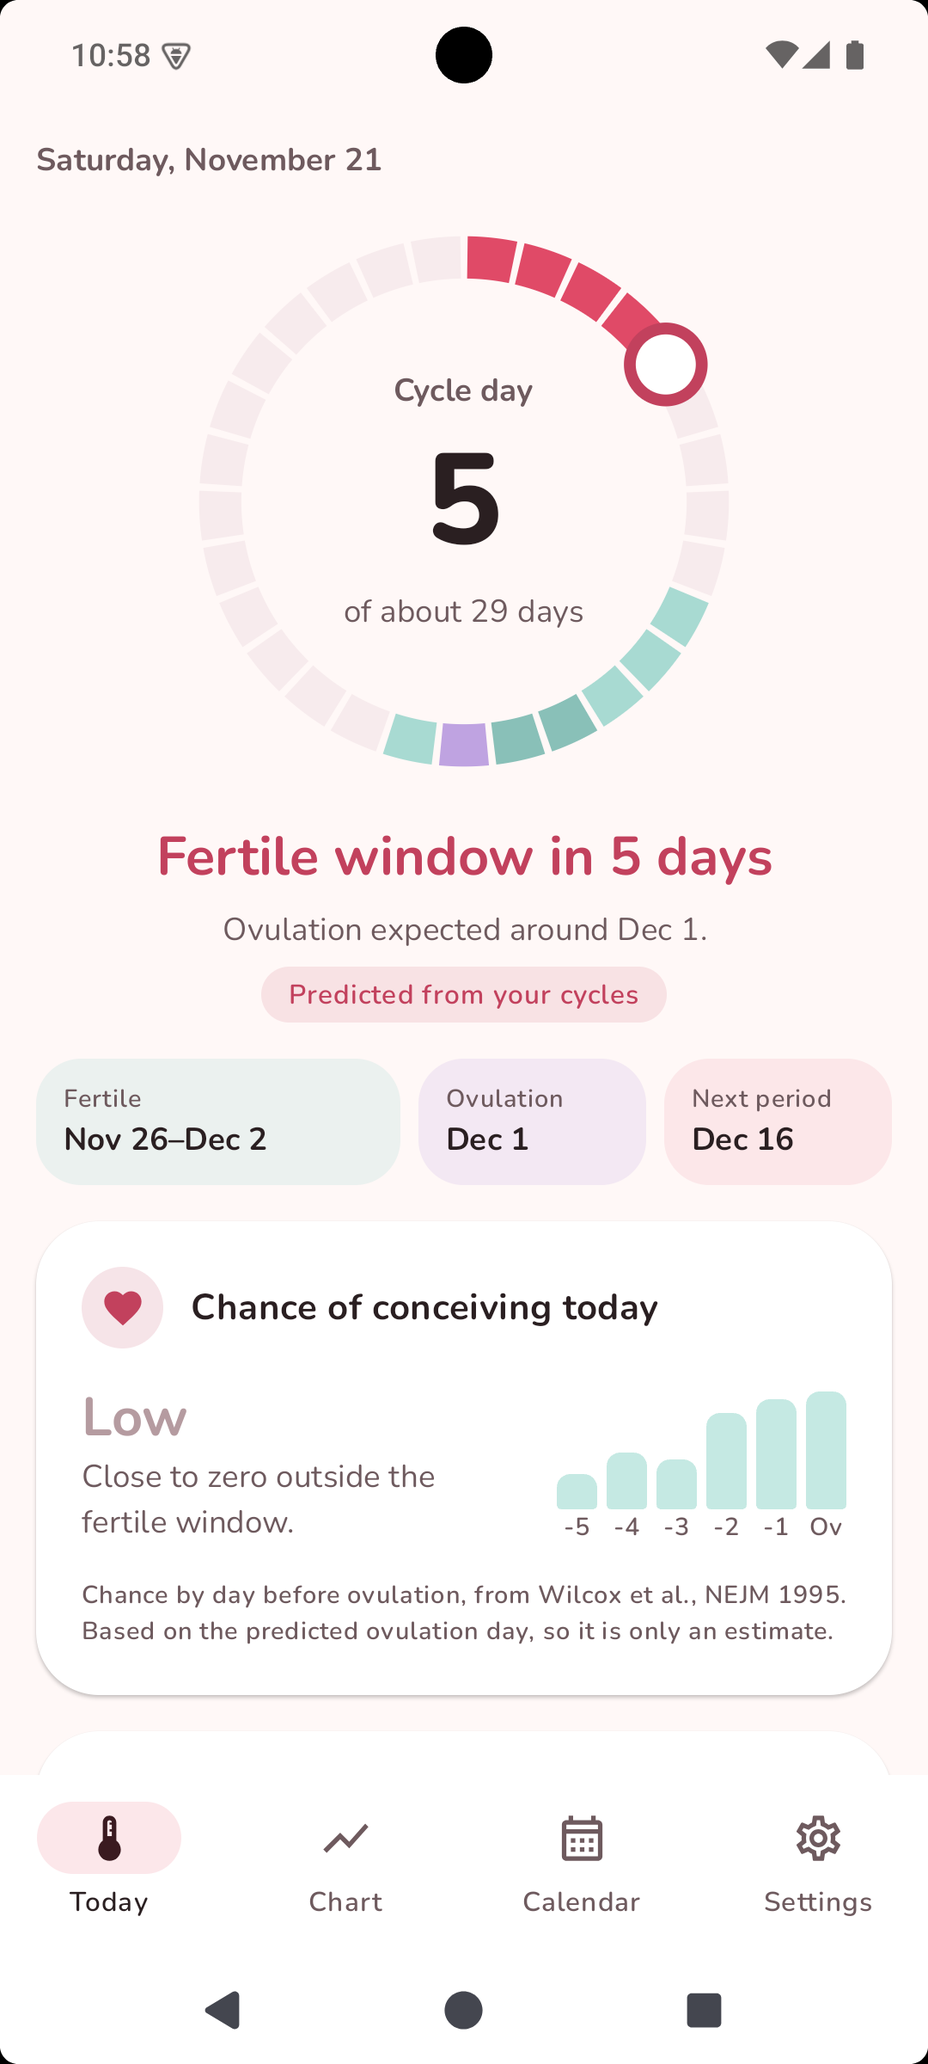
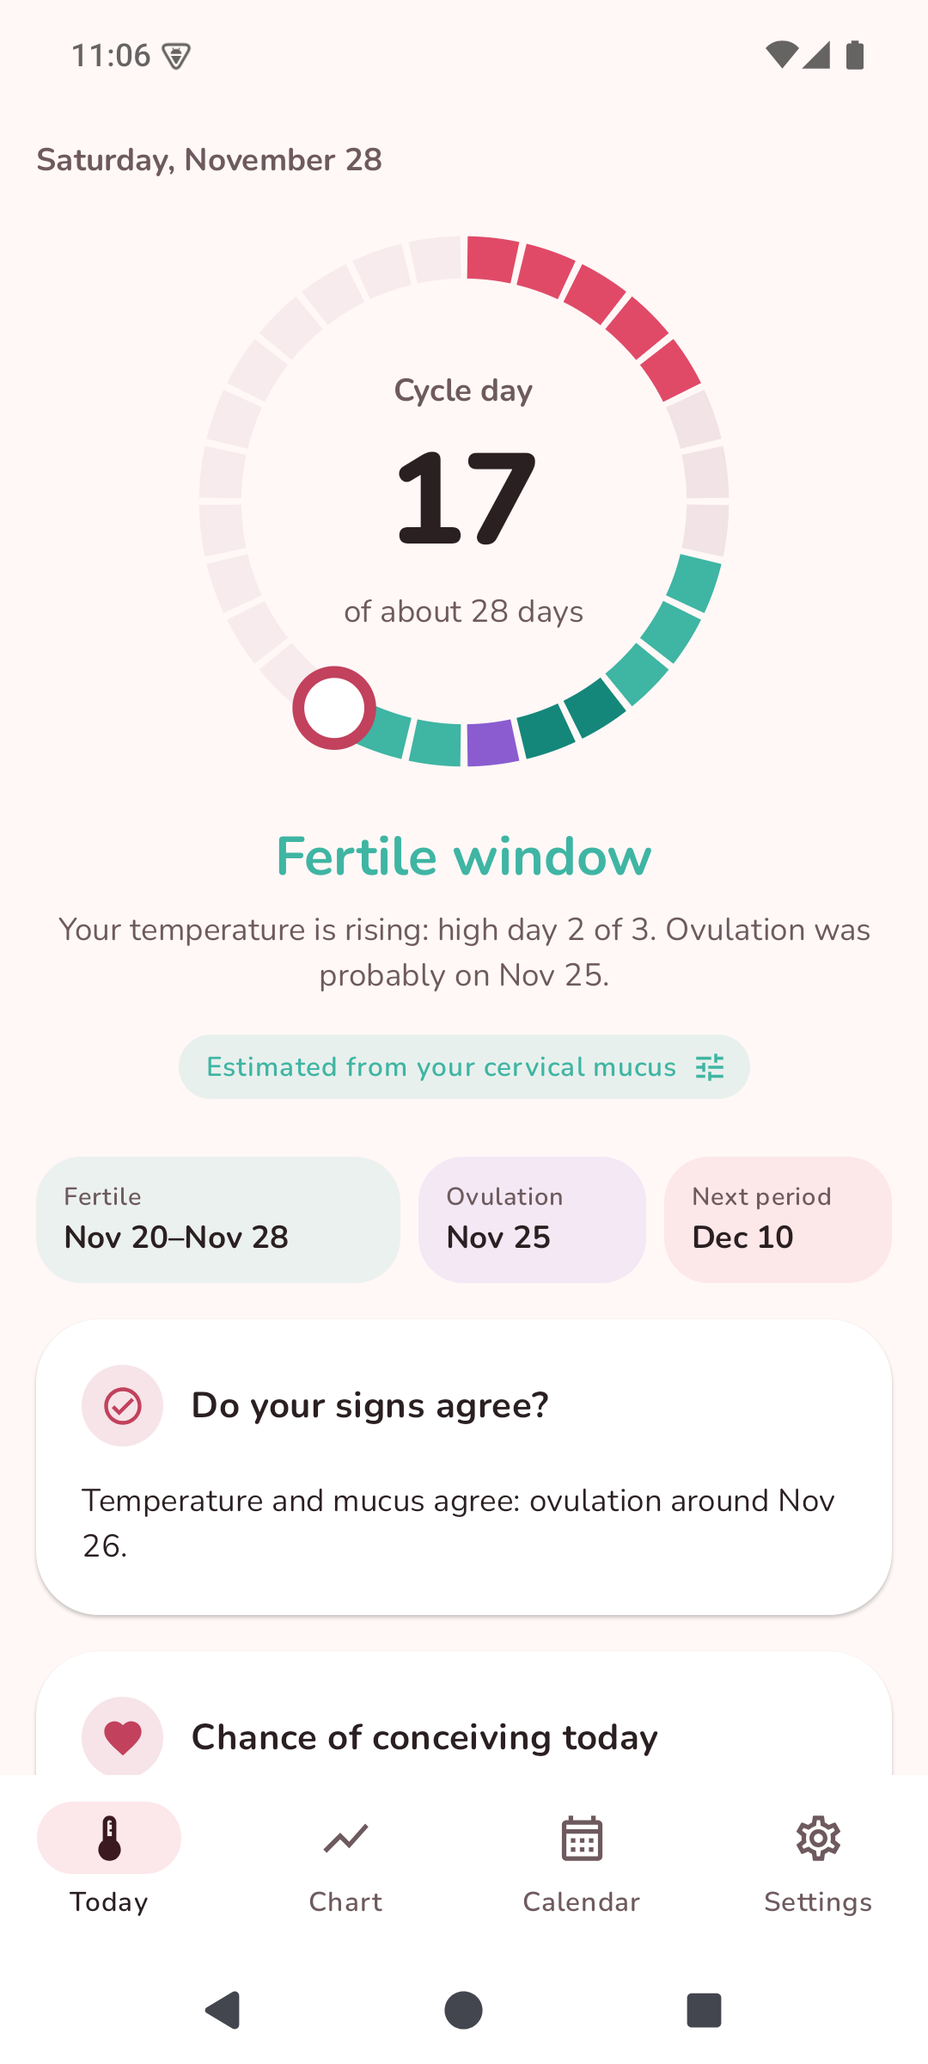
Ready for Google Play as a period tracker: disclaimer, store texts, README and screenshots

diff --git a/shared/src/commonMain/kotlin/app/ondea/bridge/DemoData.kt b/shared/src/commonMain/kotlin/app/ondea/bridge/DemoData.kt
@@ -4,12 +4,13 @@ import app.ondea.data.AppData
 
 /**
  * Three sample cycles ending [today] (epoch day): two finished cycles with a temperature rise and mucus,
- * and the current one. For screenshots and tests only; never saved.
+ * and the current one on day 17, with a mucus peak on day 14 and the temperature rising since day 16.
+ * For screenshots and tests only; never saved.
  */
 object DemoData {
     fun appData(today: Long): AppData {
         val core = OndeaCore(null)
-        val start = today - 4 - 58
+        val start = today - 16 - 58
         core.completeOnboarding(start, cycleLength = 28, periodLength = 5, ovulationDay = 0, fahrenheit = false)
         val starts = listOf(start, start + 29, start + 58)
         starts.forEachIndexed { i, cycleStart ->
@@ -17,11 +18,14 @@ object DemoData {
             val end = if (i + 1 < starts.size) starts[i + 1] else today + 1
             for (day in cycleStart until end) {
                 val cycleDay = (day - cycleStart).toInt() + 1
-                val high = i < 2 && cycleDay >= (if (i == 0) 17 else 16)
+                val high = cycleDay >= (if (i == 0) 17 else 16)
                 val jitter = (((day * 37) % 13).toInt() - 6) / 100.0
                 core.setTemperature(day, (if (high) 36.72 else 36.38) + jitter)
                 if (cycleDay <= 5) core.setFlow(day, listOf(3, 4, 3, 2, 1)[cycleDay - 1])
-                if (i < 2 && cycleDay in 10..15) core.setMucus(day, if (cycleDay >= 13) 4 else 3)
+                // Creamy, then egg white up to the peak, then sticky: the peak is confirmed the day after.
+                val peak = if (i == 2) 14 else 15
+                if (cycleDay in 10..peak) core.setMucus(day, if (cycleDay >= peak - 2) 4 else 3)
+                if (cycleDay == peak + 1) core.setMucus(day, 2)
             }
         }
         return core.data

diff --git a/shared/src/commonMain/kotlin/app/ondea/domain/TodayStatus.kt b/shared/src/commonMain/kotlin/app/ondea/domain/TodayStatus.kt
@@ -99,6 +99,9 @@ fun CycleEngine.todayStatus(): TodayStatus? {
             when {
                 f.ovulationSource == OvulationSource.TEMP_RISING ->
                     status(StatusTone.PEAK, Headline.PEAK_FERTILITY, 0, Detail.TEMP_RISING, f.risingDays, f.ovulation)
+                // After a mucus peak, a rise that has started is news: say it instead of "waiting for the rise".
+                f.ovulationSource == OvulationSource.MUCUS && f.risingDays > 0 ->
+                    status(tone, headline, 0, Detail.TEMP_RISING, f.risingDays, f.ovulation)
                 f.ovulationSource == OvulationSource.MUCUS_SIGN ->
                     if (f.ovulation == f.plannedOvulation) status(tone, headline, 0, Detail.MUCUS_SUGGESTS, null, f.ovulation)
                     else status(tone, headline, 0, Detail.MUCUS_MOVED, null, f.ovulation, f.plannedOvulation)
@@ -114,6 +117,7 @@ fun CycleEngine.todayStatus(): TodayStatus? {
         }
         today.isBefore(f.fertileStart) ->
             status(StatusTone.NEUTRAL, Headline.FERTILE_IN, daysBetween(today, f.fertileStart), Detail.OVULATION_EXPECTED, null, f.ovulation)
+        f.risingDays > 0 -> status(StatusTone.NEUTRAL, Headline.WAITING_FOR_SHIFT, 0, Detail.TEMP_RISING, f.risingDays, f.ovulation)
         else -> status(StatusTone.NEUTRAL, Headline.WAITING_FOR_SHIFT, 0, Detail.WAITING_FOR_SHIFT)
     }
 }

diff --git a/shared/src/commonTest/kotlin/app/ondea/domain/LearningTest.kt b/shared/src/commonTest/kotlin/app/ondea/domain/LearningTest.kt
@@ -195,4 +195,14 @@ class LearningTest {
         val entries = period() + (6..14).map { entry(it, temp = 36.40) } + (15..18).map { entry(it, temp = 36.65) }
         assertNull(engine(18, entries).signsCheck())
     }
+
+    @Test
+    fun aRiseAfterTheMucusPeakIsShownNotAwaited() {
+        // Peak on day 12, first high reading on day 16 (today): not confirmed yet.
+        val entries = period() + (6..15).map { entry(it, temp = 36.40, mucus = if (it == 12) 4 else if (it == 13) 2 else 0) } +
+            entry(16, temp = 36.62)
+        val status = engine(16, entries).todayStatus()!!
+        assertEquals(Detail.TEMP_RISING, status.detail)
+        assertEquals(1, status.detailNumber)
+    }
 }

diff --git a/README.md b/README.md
@@ -4,77 +4,85 @@
 
 # Ondea
 
-**Private, offline fertility and ovulation tracker for Android and iPhone, based on basal body temperature and cervical mucus.**
+**Private, offline period and ovulation tracker for Android and iPhone, based on basal body temperature and cervical mucus.**
 
-[![Android build & test](https://github.com/0x0SegFault/ondea/actions/workflows/build.yml/badge.svg)](https://github.com/0x0SegFault/ondea/actions/workflows/build.yml)
-[![iOS build & test](https://github.com/0x0SegFault/ondea/actions/workflows/ios.yml/badge.svg)](https://github.com/0x0SegFault/ondea/actions/workflows/ios.yml)
-[![Latest release](https://img.shields.io/github/v/release/0x0SegFault/ondea?label=release)](https://github.com/0x0SegFault/ondea/releases/latest)
-[![Downloads](https://img.shields.io/github/downloads/0x0SegFault/ondea/total.svg?label=downloads)](https://github.com/0x0SegFault/ondea/releases)
+[![Android build & test](https://github.com/0x0SegFault/Ondea/actions/workflows/build.yml/badge.svg)](https://github.com/0x0SegFault/Ondea/actions/workflows/build.yml)
+[![iOS build & test](https://github.com/0x0SegFault/Ondea/actions/workflows/ios.yml/badge.svg)](https://github.com/0x0SegFault/Ondea/actions/workflows/ios.yml)
+[![Latest release](https://img.shields.io/github/v/release/0x0SegFault/Ondea?label=release)](https://github.com/0x0SegFault/Ondea/releases/latest)
+[![Downloads](https://img.shields.io/github/downloads/0x0SegFault/Ondea/total.svg?label=downloads)](https://github.com/0x0SegFault/Ondea/releases)
 [![License: EUPL 1.2](https://img.shields.io/badge/license-EUPL--1.2-blue.svg)](LICENSE)
 [![Android 8.0+](https://img.shields.io/badge/Android-8.0%2B-3DDC84.svg?logo=android&logoColor=white)](#get-the-app)
-[![iOS 17+ (in progress)](https://img.shields.io/badge/iOS-17%2B%20in%20progress-lightgrey.svg?logo=apple&logoColor=white)](ios)
+[![iOS 17+ (first version)](https://img.shields.io/badge/iOS-17%2B%20first%20version-lightgrey.svg?logo=apple&logoColor=white)](ios)
 [![No internet permission](https://img.shields.io/badge/internet%20permission-none-success.svg)](#privacy)
 
 English · Français · Deutsch · Español · Italiano
 
 </div>
 
-Ondea helps you find your fertile days and confirm ovulation when you try to conceive. Each morning, you log your temperature. You can also log your period, cervical mucus and ovulation tests. Ondea uses the symptothermal method and published studies to show your fertile window, your most fertile days and your chance of conception per day.
+Ondea helps you find your fertile days and confirm ovulation when you try to conceive. Each morning, you log your temperature. You can also log your period, cervical mucus and ovulation tests. Ondea learns from your signs day by day and shows your fertile window, your most fertile days and your chance of conception per day. Each rule comes from a published study.
 
 Ondea has no internet access, no account, no ads and no tracking. It works without Google Play Services.
 
 | Platform | Status |
 |---|---|
-| Android 8.0+ | Available: [releases](https://github.com/0x0SegFault/ondea/releases/latest), Obtainium. F-Droid and Google Play planned. |
-| iPhone (iOS 17+) | In progress: first version, built and tested in CI. App Store later. See [ios/](ios). |
+| Android 8.0+ | Available: [releases](https://github.com/0x0SegFault/Ondea/releases/latest), Obtainium. F-Droid, IzzyOnDroid and Google Play planned. |
+| iPhone (iOS 17+) | First version: Today, daily entry, tour and app lock. Built and tested in CI on each change. Chart, calendar and backups to come; App Store later. See [ios/](ios). |
 
 Both apps share the same fertility logic ([`shared/`](shared), Kotlin Multiplatform), the same data format and the same translations.
 
-> **Ondea is not a contraceptive and not a medical device.**
+> **Ondea is not a medical device and does not diagnose, treat, cure or prevent any medical condition. It is not a contraceptive.** Consult a healthcare professional for medical advice.
 
 <p align="center">
-  <img src="fastlane/metadata/android/en-US/images/phoneScreenshots/1_today.png" width="19%" alt="Today screen with the cycle ring">
-  <img src="fastlane/metadata/android/en-US/images/phoneScreenshots/2_chart.png" width="19%" alt="Temperature chart with coverline and fertile window">
-  <img src="fastlane/metadata/android/en-US/images/phoneScreenshots/3_calendar.png" width="19%" alt="Calendar with periods, fertile days and ovulation">
-  <img src="fastlane/metadata/android/en-US/images/phoneScreenshots/4_entry.png" width="19%" alt="Daily temperature and observations entry">
-  <img src="fastlane/metadata/android/en-US/images/phoneScreenshots/5_settings.png" width="19%" alt="Settings">
+  <img src="fastlane/metadata/android/en-US/images/phoneScreenshots/1_today.png" width="16%" alt="Today: cycle ring, fertile window and the sign check">
+  <img src="fastlane/metadata/android/en-US/images/phoneScreenshots/2_chart.png" width="16%" alt="Temperature chart with phases, coverline and typical curve">
+  <img src="fastlane/metadata/android/en-US/images/phoneScreenshots/3_calendar.png" width="16%" alt="Calendar with period, fertile days and ovulation">
+  <img src="fastlane/metadata/android/en-US/images/phoneScreenshots/4_entry.png" width="16%" alt="Temperature entry with one wheel per digit">
+  <img src="fastlane/metadata/android/en-US/images/phoneScreenshots/5_settings.png" width="16%" alt="Settings: ovulation day for the forecast and what your signs show">
+  <img src="fastlane/metadata/android/en-US/images/phoneScreenshots/6_privacy.png" width="16%" alt="Tour page: private and safe">
 </p>
 
 ## Get the app
 
 | Source | How |
 |---|---|
-| [Obtainium](https://github.com/ImranR98/Obtainium) (recommended) | Add `https://github.com/0x0SegFault/ondea`. You get updates automatically. |
-| [GitHub Releases](https://github.com/0x0SegFault/ondea/releases/latest) | Download `ondea-X.Y.Z.apk` on your phone and open it. |
-| F-Droid | Planned for early 2027. F-Droid accepts apps after 3 months of development. |
+| [Obtainium](https://github.com/ImranR98/Obtainium) (recommended) | Add `https://github.com/0x0SegFault/Ondea`. You get updates automatically. |
+| [GitHub Releases](https://github.com/0x0SegFault/Ondea/releases/latest) | Download `ondea-X.Y.Z.apk` on your phone and open it. |
+| F-Droid, IzzyOnDroid | Planned. |
+| Google Play | Planned, as a period tracker. |
 | iOS | In progress: see [ios/](ios). |
 
 Updates install over the previous version and keep your data. Each release includes a `.sha256` file to check the download.
 
 ## Features
 
-- **Fast daily entry:** waking temperature with +/− buttons. Period, cervical mucus, ovulation test (LH), intercourse and notes save when you tap them.
+- **Fast daily entry:** waking temperature to 0.01 °C with one wheel per digit, or typed. Period, cervical mucus, ovulation test (LH), intercourse and notes save when you tap them.
+- **Learns day by day:** fertile mucus or a first high temperature moves the estimate of the current cycle.
+- **"Do your signs agree?":** compares the ovulation day shown by your temperature and by your mucus. If they are far apart, Ondea asks you to check for disturbed readings.
 - **Ovulation confirmed** by the temperature rise (3-over-6 rule) and the cervical mucus peak.
-- **Fertile window and peak days**, predicted from your own cycles and corrected by the signs you log.
+- **One ovulation day for the forecast.** Only you change it. After a cycle, Ondea shows what your signs point to and suggests that day.
 - **Chance of conception per day** (Wilcox et al., *NEJM* 1995).
-- **Your usual ovulation day and Ondea's estimate**, both kept. You choose which one predicts.
-- **"How this date is set":** tap the date source to see each sign and which one is in use.
-- **Cycle ring, temperature chart and calendar.** Tap a past day to add or correct it.
+- **Cycle ring, temperature chart and calendar.** The chart shows the phases, your usual low and high levels and the typical curve. Tap a past day to add or correct it.
 - **Next period forecast**, late-period notice, and a pregnancy hint after 18 days of high temperature.
+- **Short tour** before the setup: what Ondea is, privacy, what to record, how to measure, how to read the chart. Open it again in Settings → How Ondea works.
 - Discreet daily reminder, °C or °F, 5 languages.
+- **Anonymous problem reports:** a form in your browser, no account and no email. Or use GitHub.
 
 ## How it works
 
-Ondea combines the signs of your cycle, strongest first:
+**Before any sign,** the forecast uses one ovulation day: the day you set, or a typical cycle (cycle length minus a 14-day luteal phase).
+
+**During the cycle,** your signs move the estimate, strongest first:
 
 | Sign | When it appears | What Ondea does |
 |---|---|---|
-| Temperature rise | **After** ovulation | Confirms ovulation. Teaches Ondea your ovulation day for the next cycles. |
+| Temperature rise | **After** ovulation | Shown as "rising" from the first high reading. Confirms ovulation after 3 readings. |
 | Ovulation test (LH) | 22–56 h **before** ovulation | Sets ovulation to the day after the first positive test. |
-| Cervical mucus | Days **before** ovulation | Opens the fertile window. The peak day estimates ovulation. |
-| Prediction | Before any sign | Uses your past confirmed cycles, your usual day, or a typical cycle. |
+| Cervical mucus | Days **before** ovulation | Opens the fertile window. Creamy and egg-white mucus move the estimate. The peak day estimates ovulation. |
+| No sign yet | After the forecast day | While you keep recording, the estimate moves later, one day at a time (10 days at most). |
 
-The temperature rise cannot announce ovulation: when it is confirmed, the fertile days of that cycle have passed. It makes the next predictions better. To time intercourse in the current cycle, use mucus and ovulation tests.
+**After the cycle,** Ondea learns your ovulation day, your usual temperature levels and your usual gap between mucus peak and ovulation. When what it learnt differs from your forecast day by 2 days or more, it suggests the new day. You choose.
+
+The temperature rise cannot announce ovulation: when it is confirmed, the fertile days of that cycle have passed. To time intercourse in the current cycle, use mucus and ovulation tests.
 
 Each rule and its scientific source: [docs/SCIENCE.md](docs/SCIENCE.md). The app shows the same sources in **Settings → About → Science and sources**.
 
@@ -84,7 +92,8 @@ Each rule and its scientific source: [docs/SCIENCE.md](docs/SCIENCE.md). The app
 - **Encrypted on the phone** with AES-256-GCM. The key stays in the Android Keystore (on iPhone: in the Keychain, this device only).
 - **Not in cloud backups** (Android backup, iCloud). No account, no ads, no analytics, no Google services.
 - **Optional app lock** (fingerprint, face, Face ID or screen lock) and screenshot blocking on Android.
-- **Backups only when you ask**, encrypted with your password. Send them to Proton Drive, Nextcloud or another app, or save them as a file.
+- **Backups only when you ask**, encrypted with your password. Send them to Proton Drive, Nextcloud or another app, or save them as a file. Export to a spreadsheet (CSV) is also possible.
+- **Problem reports** open a form in your browser. You see the full text before you send it. The form keeps nothing about you (no IP address, no cookie).
 
 | Permission | Why |
 |---|---|
@@ -99,8 +108,8 @@ No internet, location, contacts, camera, microphone, storage or accounts. Full l
 You need JDK 17 or newer and the Android SDK (platform 36).
 
 ```sh
-git clone https://github.com/0x0SegFault/ondea.git
-cd ondea
+git clone https://github.com/0x0SegFault/Ondea.git
+cd Ondea
 ./gradlew testDebugUnitTest   # unit tests
 ./gradlew lintDebug           # Android lint
 ./gradlew assembleDebug       # app/build/outputs/apk/debug/app-debug.apk
@@ -108,9 +117,10 @@ cd ondea
 
 | Folder | Contents |
 |---|---|
-| [`shared/`](shared) | Fertility logic and data format in Kotlin Multiplatform: shared by Android and the planned iOS app. Tests: `./gradlew :shared:jvmTest` |
+| [`shared/`](shared) | Fertility logic and data format in Kotlin Multiplatform, shared by Android and iOS. Tests: `./gradlew :shared:jvmTest` |
 | [`app/`](app) | Android app: screens, encrypted storage, reminder, backups |
-| [`ios/`](ios) | iOS app (SwiftUI, in progress) |
+| [`ios/`](ios) | iOS app (SwiftUI, first version) |
+| [`reports/`](reports) | Anonymous report form (Scaleway function, Paris) |
 
 Release builds are reproducible.
 
@@ -118,7 +128,7 @@ Release builds are reproducible.
 
 Bug reports, translations and pull requests are welcome. To translate, see [docs/TRANSLATING.md](docs/TRANSLATING.md). Read [CONTRIBUTING.md](CONTRIBUTING.md) first. Report security issues privately: [SECURITY.md](SECURITY.md).
 
-Maintainers: [docs/RELEASING.md](docs/RELEASING.md) explains releases, signing and F-Droid; [docs/STORES.md](docs/STORES.md) explains Google Play and the App Store.
+Maintainers: [docs/RELEASING.md](docs/RELEASING.md) explains releases, signing and F-Droid; [docs/STORES.md](docs/STORES.md) explains Google Play (personal account, period tracker) and the App Store.
 
 ## How Ondea is made
 

diff --git a/docs/STORES.md b/docs/STORES.md
@@ -18,6 +18,14 @@ This page is for maintainers. Store rules change: check each item in the store's
 ## Google Play
 
 ### Account
+Ondea is published from a **personal account**. Google requires an organization account for "health apps, such as medical apps and human subjects research apps" ([account types](https://support.google.com/googleplay/android-developer/answer/13634885)). Ondea is set up to stay out of that group:
+
+- It is declared as **Period Tracking**, in the **Health and fitness** group of the health apps form. Do not select anything in the **Medical** group (for example "Reproductive and Sexual Health"), "Medical device apps" or "Health subjects research".
+- It makes no medical claim: no diagnosis, no treatment, no contraception. The store description has the exact disclaimer that Google asks for ([Health Content and Services](https://support.google.com/googleplay/android-developer/answer/16679511)), and the app shows it in Settings → About.
+- It is not a regulated medical device, does not use Health Connect and does not do research.
+
+If a reviewer still asks for an organization account, reply with these points and the form answers below. If Google keeps the request, the options are an organization account (legal entity and a free D-U-N-S number) or F-Droid and IzzyOnDroid only.
+
 1. Create a Google Play Console account (US$25, once). Google checks your identity with an official ID.
 2. Your developer name and contact email are public. Your legal name is not shown on a personal account.
 3. EU Digital Services Act: declare if you are a **trader**. A free app with no income is usually "non-trader"; traders must show an address and phone number.
@@ -26,13 +34,15 @@ This page is for maintainers. Store rules change: check each item in the store's
 ### App setup forms (Play Console → Policy → App content)
 | Form | Answer for Ondea |
 |---|---|
-| Privacy policy | `https://github.com/0x0SegFault/ondea/blob/main/PRIVACY.md` |
+| Privacy policy | `https://github.com/0x0SegFault/Ondea/blob/main/PRIVACY.md` |
 | App access | No login needed |
 | Ads | No ads |
 | Content rating (IARC) | Answer the questionnaire: reproductive health information, no user content, no sharing |
 | Target audience | 18+ recommended (sexual and reproductive health) |
-| Data safety | No data collected, no data shared; data encrypted on the device; user can delete it in the app |
-| Health apps | Declare it: reproductive health, period and fertility tracking; not a medical device |
+| Data safety | No data collected, no data shared; data encrypted on the device; user can delete it in the app. The app has no internet permission. A problem report is sent by the user in the browser, through a separate form; the app sends nothing. |
+| Health apps | **Period Tracking** (group "Health and fitness") only. Nothing in "Medical", not "Medical device apps", not "Health subjects research". |
+| Store category | Health & Fitness (not Medical) |
+| Review notes | No account or login needed. Period and ovulation tracker for people who want to conceive. No internet permission: all data stays on the phone. Not a medical device and not a contraceptive (disclaimer in the description and in Settings → About). Sources: Settings → About → Science and sources. |
 
 ### Signing
 Play uses "Play App Signing". Choose **use my own key** and upload `ondea-release.jks` with Google's encryption tool (Play Console shows the command). The Play version then has the same signature as GitHub and F-Droid, so users can switch without losing data.
@@ -57,7 +67,7 @@ Upload `ondea-X.Y.Z.aab` from the GitHub release to the closed test track first,
 | Item | Answer for Ondea |
 |---|---|
 | Bundle ID | `io.github.x0x0segfault.ondea` |
-| Category | Health & Fitness (secondary: Medical) |
+| Category | Health & Fitness (no secondary category: Ondea makes no medical claim) |
 | App Privacy | Data Not Collected |
 | Age rating | Answer the questionnaire: infrequent medical/treatment information |
 | Export compliance | Uses only exempt encryption (data protection on the device). `ITSAppUsesNonExemptEncryption` is already `NO`. |

diff --git a/CHANGELOG.md b/CHANGELOG.md
@@ -4,6 +4,11 @@ All notable changes to Ondea are listed here. The format follows [Keep a Changel
 
 ## [Unreleased]
 
+### Changed
+- Today: after the mucus peak, a temperature rise that has started is shown ("high day 2 of 3") instead of "waiting for the rise".
+- About and store texts: the disclaimer now says Ondea is not a medical device and does not diagnose, treat, cure or prevent any medical condition, and asks you to consult a healthcare professional. Store texts describe Ondea as a period and ovulation tracker and list the new features.
+- README: new screenshots and how Ondea works.
+
 ## [1.4.0] – 2026-11-27
 
 ### Added
